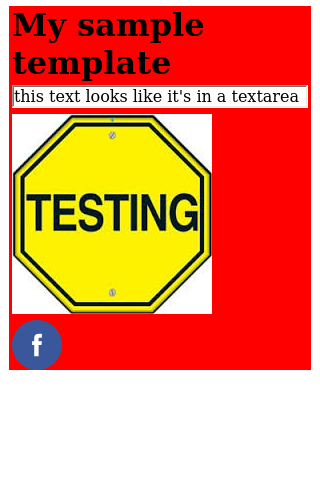
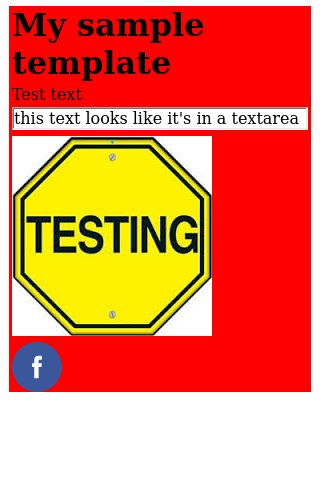
edited example and readme

Changed region(s): [[0.0312, 0.1562, 0.9688, 0.8438]]

diff --git a/examples/renderFile.js b/examples/renderFile.js
@@ -6,7 +6,7 @@ console.log('looking for templates in:\n' + templatePath);
 const ts = new TemplateShot(templatePath);
 
 console.log('rendering template index.html to example1.png');
-ts.renderFile('index.html', {}, 'example1.png');
+ts.renderFile('index.html', {'paragraph_text' : 'Test text'}, 'example1.png');
 
 
 console.log('rendering template index.html\
@@ -16,7 +16,7 @@ console.log('rendering template index.html\
 
  ts.renderFile(
     'index.html',
-    {'paragraph_text' : 'Test text'},
+    {},// if you do not pass anything as a templateValue, nothing will be rendered
     'example2.png',
     {   
         screenSize: {

diff --git a/README.md b/README.md
@@ -11,7 +11,7 @@ npm install --save template-shot
 
 ## Examples
 
-This example renders the sample template [index.html](examples/templates/index.html) into [example1.png](examples/example1.png)
+This example renders the sample template [index.html](examples/templates/index.html) into [example1.png](examples/example1.png). Notice, that {paragraph_text} is replaced with `Test text` in the rendered image
 ```
 const {TemplateShot} = require( '../build/index');
 
@@ -21,8 +21,10 @@ console.log('looking for templates in:\n' + templatePath);
 const ts = new TemplateShot(templatePath);
 
 console.log('rendering template index.html to example1.png');
-ts.renderFile('index.html', {}, 'example1.png');
+ts.renderFile('index.html', {'paragraph_text' : 'Test text'}, 'example1.png');
 ```
+![rendered image](examples/example1.png)
+
 run this script from the root folder of the project
 
 See [examples](examples) folder for more examples
